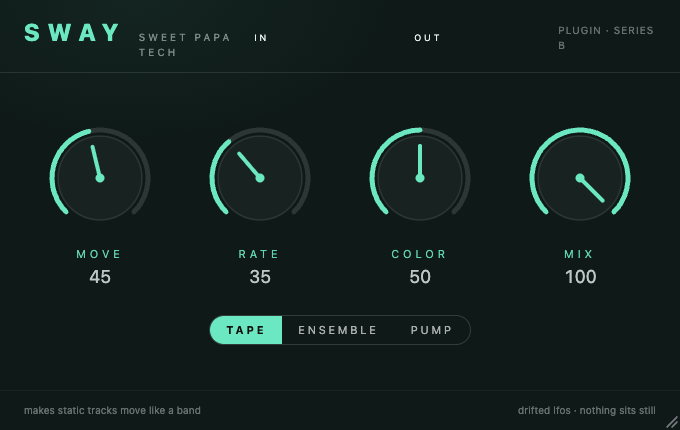
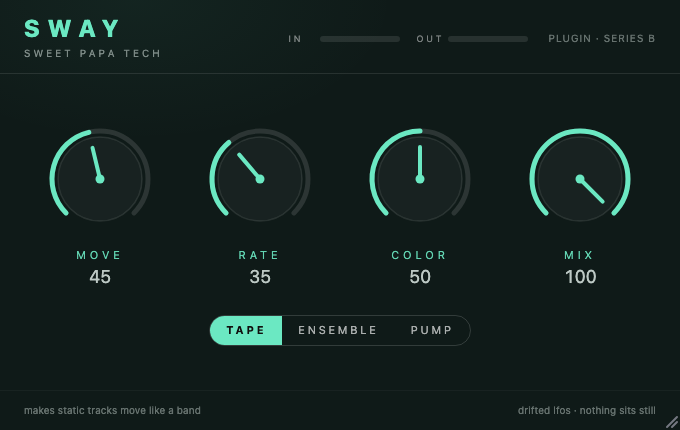
Fix overlapping and clipped UI across every pedal
The six pedal faces all had layout defects that made controls
unreadable. Verified each fix by measuring the rendered geometry in a
browser, not by eye.

FOFOPEDAL had genuine text-on-text collisions. The six knob columns were
fixed percentages (14%-18%) but the type-toggle rows inside them are
intrinsically wider, so each row painted over its neighbour: "Iron" sat
under "Chorus", "Trem/Vib" under "Digital", "Tape" under "Plate". Columns
now size to their own content, and the small toggles are compact enough
that all six fit the 932px of usable width exactly.

BACKPORCH, DOUBLE and SWAY shipped a Meter copy-pasted from DAYDREAM that
still referenced bg-dream-edge and text-dream-dim. Those tokens exist only
in DAYDREAM's Tailwind config, so the classes were never generated and the
meter track computed to rgba(0,0,0,0) — the IN/OUT bars were invisible,
not dim. The component is now token-free and identical across all four
pedals again.

Their headers also laid three items across a width that fit two: the gap
between the wordmark and the meters was exactly 0px, "Sweet Papa Tech"
wrapped to three lines into the IN label, and "plugin · series b" was
squeezed to 43px. DAYDREAM was worst — 679px of header inside a 520px
design box, so the OUT meter was cut in half and the version tag was
entirely off-screen. Wordmarks now stack, side text can't wrap, and
DAYDREAM stacks its meters and moves the version to the footer.
[…]

diff --git a/fofopedal/ui/src/App.jsx b/fofopedal/ui/src/App.jsx
@@ -51,7 +51,7 @@ export default function App() {
 
   return (
     <>
-    <FitScale designWidth={980} designHeight={800} background="#f3ecdd">
+    <FitScale designWidth={980} designHeight={640} background="#f3ecdd">
     <div className="relative w-full h-full text-paper-ink overflow-hidden paper-grain bg-paper">
       {/* Foreground */}
       <div className="relative flex flex-col h-full">
@@ -87,15 +87,15 @@ export default function App() {
         </section>
 
         {/* Six big knobs */}
-        <section className="flex-1 px-6 py-6 flex flex-col">
-          <div className="flex items-start justify-between gap-3">
+        <section className="flex-1 px-6 py-6 flex flex-col justify-center">
+          <div className="flex items-start justify-between gap-2">
             {/* CHARACTER */}
-            <div className="flex flex-col items-center gap-3 w-[14%]">
+            <div className="flex flex-col items-center gap-3 shrink-0">
               <BigKnob paramId="character" label="Character" accent="terracotta" defaultNormalised={0.25} />
             </div>
 
             {/* DRIVE */}
-            <div className="flex flex-col items-center gap-3 w-[16%]">
+            <div className="flex flex-col items-center gap-3 shrink-0">
               <BigKnob paramId="drive" label="Drive" accent="terracotta" defaultNormalised={0.20} />
               <SegmentedToggle
                 paramId="driveType"
@@ -105,7 +105,7 @@ export default function App() {
             </div>
 
             {/* SHAPE */}
-            <div className="flex flex-col items-center gap-3 w-[18%]">
+            <div className="flex flex-col items-center gap-3 shrink-0">
               <BigKnob paramId="shape" label="Shape" accent="mustard" defaultNormalised={0.5} />
               <div className="flex flex-col gap-1.5">
                 <SegmentedToggle
@@ -122,7 +122,7 @@ export default function App() {
             </div>
 
             {/* TIME */}
-            <div className="flex flex-col items-center gap-3 w-[16%]">
+            <div className="flex flex-col items-center gap-3 shrink-0">
               <BigKnob
                 paramId="timeMs"
                 label="Time"
@@ -138,7 +138,7 @@ export default function App() {
             </div>
 
             {/* SPACE */}
-            <div className="flex flex-col items-center gap-3 w-[18%]">
+            <div className="flex flex-col items-center gap-3 shrink-0">
               <BigKnob paramId="space" label="Space" accent="sage" defaultNormalised={0.30} />
               <SegmentedToggle
                 paramId="spaceType"
@@ -148,7 +148,7 @@ export default function App() {
             </div>
 
             {/* MIX */}
-            <div className="flex flex-col items-center gap-3 w-[14%]">
+            <div className="flex flex-col items-center gap-3 shrink-0">
               <BigKnob paramId="mix" label="Mix" accent="ink" defaultNormalised={0.30} />
             </div>
           </div>
@@ -187,7 +187,7 @@ export default function App() {
       </div>
     </div>
     </FitScale>
-    <ResizeHandle minWidth={640} minHeight={522} />
+    <ResizeHandle minWidth={640} minHeight={418} />
     </>
   );
 }

diff --git a/daydream/ui/src/App.jsx b/daydream/ui/src/App.jsx
@@ -60,8 +60,8 @@ export default function App() {
 
       {/* Foreground */}
       <div className="relative flex flex-col h-full">
-        <header className="px-6 pt-4 pb-3 flex items-center justify-between gap-4 border-b border-dream-edge/60">
-          <div className="flex items-baseline gap-3">
+        <header className="px-6 pt-4 pb-3 flex items-center gap-5 border-b border-dream-edge/60">
+          <div className="flex flex-col shrink-0">
             <h1 className="text-2xl font-extrabold tracking-[0.4em]"
                 style={{
                   background: 'linear-gradient(90deg, #4cdef0, #c084ff, #ff8ad3)',
@@ -70,17 +70,14 @@ export default function App() {
                 }}>
               DAYDREAM
             </h1>
-            <span className="text-[10px] uppercase tracking-[0.35em] text-dream-dim">
+            <span className="text-[10px] uppercase tracking-[0.35em] text-dream-dim mt-1.5 whitespace-nowrap">
               Sweet Papa Tech
             </span>
           </div>
-          <div className="flex items-center gap-4">
+          <div className="flex-1 flex flex-col items-end gap-1.5">
             <Meter label="In"  level={levels.in} />
             <Meter label="Out" level={levels.out} />
           </div>
-          <span className="text-[10px] uppercase tracking-widest text-dream-dim">
-            {isJuceHost ? 'plugin' : 'preview'} · v0.1
-          </span>
         </header>
 
         <main className="flex-1 flex items-center justify-center">
@@ -91,7 +88,7 @@ export default function App() {
 
         <footer className="px-6 py-3 border-t border-dream-edge/60 text-[10px] text-dream-dim flex justify-between">
           <span>tape sat · pitch drift · chorus · slap · shimmer reverb</span>
-          <span>turn it up · made for FoFo</span>
+          <span>turn it up · made for FoFo · {isJuceHost ? 'plugin' : 'preview'} · v0.1</span>
         </footer>
       </div>
     </div>

diff --git a/ui/src/App.jsx b/ui/src/App.jsx
@@ -64,8 +64,8 @@ export default function App() {
       {/* Foreground */}
       <div className="relative flex flex-col h-full">
         <header className="px-6 pt-4 pb-3 flex items-center justify-between gap-4 border-b border-vroom-edge backdrop-blur-sm">
-          <div className="flex items-baseline gap-3">
-            <h1 className="text-3xl font-extrabold tracking-[0.25em]"
+          <div className="flex flex-col shrink-0">
+            <h1 className="text-3xl font-extrabold tracking-[0.25em] leading-none"
                 style={{
                   background: 'linear-gradient(90deg, #ff5050, #ffaa3c, #ffd040, #4cdef0, #a55aff, #ff5aa3)',
                   WebkitBackgroundClip: 'text',
@@ -73,17 +73,14 @@ export default function App() {
                 }}>
               VROOM
             </h1>
-            <span className="text-[10px] uppercase tracking-[0.3em] text-vroom-dim">
+            <span className="text-[10px] uppercase tracking-[0.3em] text-vroom-dim mt-1.5 whitespace-nowrap">
               Sweet Papa Tech
             </span>
           </div>
-          <div className="flex items-center gap-4">
+          <div className="flex-1 flex items-center justify-end gap-4">
             <ModeSelector />
             <VoiceSelector />
           </div>
-          <span className="text-[10px] uppercase tracking-widest text-vroom-dim">
-            {isJuceHost ? 'plugin' : 'dev preview'} · v0.1
-          </span>
         </header>
 
         <PresetBar />
@@ -114,7 +111,7 @@ export default function App() {
 
         <footer className="px-6 py-2 border-t border-vroom-edge text-[10px] text-vroom-dim flex justify-between">
           <span>4 voices · source-aware · 16 factory presets</span>
-          <span>made for FoFo · v0.1.0</span>
+          <span>made for FoFo · {isJuceHost ? 'plugin' : 'dev preview'} · v0.1.0</span>
         </footer>
       </div>
     </div>

diff --git a/backporch/ui/src/App.jsx b/backporch/ui/src/App.jsx
@@ -38,16 +38,16 @@ export default function App() {
       <div className="absolute inset-0 pointer-events-none opacity-[0.05]"
            style={{ background: 'radial-gradient(ellipse 80% 50% at 50% 110%, #ff9b6b 0%, transparent 60%)' }} />
 
-      <header className="relative px-6 pt-4 pb-3 flex items-center justify-between border-b border-white/10">
-        <div className="flex items-baseline gap-3">
-          <h1 className="text-2xl font-extrabold tracking-[0.35em]" style={{ color: ACCENT }}>BACKPORCH</h1>
-          <span className="text-[10px] uppercase tracking-[0.3em] opacity-50">Sweet Papa Tech</span>
+      <header className="relative px-6 pt-4 pb-3 flex items-center gap-5 border-b border-white/10">
+        <div className="flex flex-col shrink-0">
+          <h1 className="text-2xl font-extrabold tracking-[0.35em] leading-none" style={{ color: ACCENT }}>BACKPORCH</h1>
+          <span className="text-[10px] uppercase tracking-[0.3em] opacity-50 mt-1.5 whitespace-nowrap">Sweet Papa Tech</span>
         </div>
-        <div className="flex items-center gap-4">
+        <div className="flex-1 flex items-center justify-end gap-4">
           <Meter label="In" level={levels.in} />
           <Meter label="Out" level={levels.out} />
         </div>
-        <span className="text-[10px] uppercase tracking-widest opacity-40">
+        <span className="text-[10px] uppercase tracking-widest opacity-40 shrink-0 whitespace-nowrap">
           {isJuceHost ? 'plugin' : 'preview'} · series b
         </span>
       </header>

diff --git a/double/ui/src/App.jsx b/double/ui/src/App.jsx
@@ -38,16 +38,16 @@ export default function App() {
       <div className="absolute inset-0 pointer-events-none opacity-[0.05]"
            style={{ background: 'repeating-linear-gradient(90deg, transparent 0 38px, #ffb454 38px 40px)' }} />
 
-      <header className="relative px-6 pt-4 pb-3 flex items-center justify-between border-b border-white/10">
-        <div className="flex items-baseline gap-3">
-          <h1 className="text-2xl font-extrabold tracking-[0.35em]" style={{ color: ACCENT }}>DOUBLE</h1>
-          <span className="text-[10px] uppercase tracking-[0.3em] opacity-50">Sweet Papa Tech</span>
+      <header className="relative px-6 pt-4 pb-3 flex items-center gap-5 border-b border-white/10">
+        <div className="flex flex-col shrink-0">
+          <h1 className="text-2xl font-extrabold tracking-[0.35em] leading-none" style={{ color: ACCENT }}>DOUBLE</h1>
+          <span className="text-[10px] uppercase tracking-[0.3em] opacity-50 mt-1.5 whitespace-nowrap">Sweet Papa Tech</span>
         </div>
-        <div className="flex items-center gap-4">
+        <div className="flex-1 flex items-center justify-end gap-4">
           <Meter label="In" level={levels.in} />
           <Meter label="Out" level={levels.out} />
         </div>
-        <span className="text-[10px] uppercase tracking-widest opacity-40">
+        <span className="text-[10px] uppercase tracking-widest opacity-40 shrink-0 whitespace-nowrap">
           {isJuceHost ? 'plugin' : 'preview'} · series b
         </span>
       </header>

diff --git a/sway/ui/src/App.jsx b/sway/ui/src/App.jsx
@@ -38,16 +38,16 @@ export default function App() {
       <div className="absolute inset-0 pointer-events-none opacity-[0.05]"
            style={{ background: 'radial-gradient(ellipse 70% 60% at 20% 0%, #6be8c2 0%, transparent 55%)' }} />
 
-      <header className="relative px-6 pt-4 pb-3 flex items-center justify-between border-b border-white/10">
-        <div className="flex items-baseline gap-3">
-          <h1 className="text-2xl font-extrabold tracking-[0.35em]" style={{ color: ACCENT }}>SWAY</h1>
-          <span className="text-[10px] uppercase tracking-[0.3em] opacity-50">Sweet Papa Tech</span>
+      <header className="relative px-6 pt-4 pb-3 flex items-center gap-5 border-b border-white/10">
+        <div className="flex flex-col shrink-0">
+          <h1 className="text-2xl font-extrabold tracking-[0.35em] leading-none" style={{ color: ACCENT }}>SWAY</h1>
+          <span className="text-[10px] uppercase tracking-[0.3em] opacity-50 mt-1.5 whitespace-nowrap">Sweet Papa Tech</span>
         </div>
-        <div className="flex items-center gap-4">
+        <div className="flex-1 flex items-center justify-end gap-4">
           <Meter label="In" level={levels.in} />
           <Meter label="Out" level={levels.out} />
         </div>
-        <span className="text-[10px] uppercase tracking-widest opacity-40">
+        <span className="text-[10px] uppercase tracking-widest opacity-40 shrink-0 whitespace-nowrap">
           {isJuceHost ? 'plugin' : 'preview'} · series b
         </span>
       </header>

diff --git a/fofopedal/ui/src/components/SegmentedToggle.jsx b/fofopedal/ui/src/components/SegmentedToggle.jsx
@@ -19,9 +19,12 @@ export default function SegmentedToggle({
     return () => combo.valueChangedEvent.removeListener(onChange);
   }, [combo]);
 
+  // 'sm' rows sit under the six knobs, where every column competes for the
+  // same 980px. Tighter padding and letter-spacing keep a row inside its
+  // own column instead of painting over its neighbour.
   const sizeClass = size === 'sm'
-    ? 'text-[10px] px-2.5 py-1'
-    : 'text-xs px-3.5 py-1.5';
+    ? 'text-[10px] px-1.5 py-1 tracking-[0.06em]'
+    : 'text-xs px-3.5 py-1.5 tracking-[0.15em]';
 
   return (
     <div className={`inline-flex rounded-full border border-paper-line bg-paper p-0.5 shadow-sketch ${className}`}>
@@ -29,7 +32,7 @@ export default function SegmentedToggle({
         <button
           key={opt}
           onClick={() => combo.setChoiceIndex(i)}
-          className={`${sizeClass} rounded-full font-semibold tracking-[0.15em] uppercase transition-colors
+          className={`${sizeClass} whitespace-nowrap rounded-full font-semibold uppercase transition-colors
             ${i === idx
               ? 'bg-terracotta text-paper shadow-inner'
               : 'text-paper-dim hover:text-paper-ink'}`}

diff --git a/backporch/ui/src/components/Meter.jsx b/backporch/ui/src/components/Meter.jsx
@@ -21,8 +21,8 @@ export default function Meter({ label, level }) {
   const color = colorForLevel(level);
   return (
     <div className="flex items-center gap-2 min-w-0">
-      <span className="text-[9px] uppercase tracking-[0.3em] text-dream-dim w-6 shrink-0">{label}</span>
-      <div className="relative h-1.5 w-28 bg-dream-edge rounded-full overflow-hidden">
+      <span className="text-[9px] uppercase tracking-[0.3em] text-white/45 w-6 shrink-0">{label}</span>
+      <div className="relative h-1.5 w-20 shrink-0 bg-white/10 rounded-full overflow-hidden">
         <div className="absolute inset-y-0 left-0 rounded-full transition-[width] duration-75 ease-out"
              style={{ width: `${norm * 100}%`, backgroundColor: color }} />
       </div>

diff --git a/daydream/ui/src/components/Meter.jsx b/daydream/ui/src/components/Meter.jsx
@@ -21,8 +21,8 @@ export default function Meter({ label, level }) {
   const color = colorForLevel(level);
   return (
     <div className="flex items-center gap-2 min-w-0">
-      <span className="text-[9px] uppercase tracking-[0.3em] text-dream-dim w-6 shrink-0">{label}</span>
-      <div className="relative h-1.5 w-28 bg-dream-edge rounded-full overflow-hidden">
+      <span className="text-[9px] uppercase tracking-[0.3em] text-white/45 w-6 shrink-0">{label}</span>
+      <div className="relative h-1.5 w-20 shrink-0 bg-white/10 rounded-full overflow-hidden">
         <div className="absolute inset-y-0 left-0 rounded-full transition-[width] duration-75 ease-out"
              style={{ width: `${norm * 100}%`, backgroundColor: color }} />
       </div>

diff --git a/double/ui/src/components/Meter.jsx b/double/ui/src/components/Meter.jsx
@@ -21,8 +21,8 @@ export default function Meter({ label, level }) {
   const color = colorForLevel(level);
   return (
     <div className="flex items-center gap-2 min-w-0">
-      <span className="text-[9px] uppercase tracking-[0.3em] text-dream-dim w-6 shrink-0">{label}</span>
-      <div className="relative h-1.5 w-28 bg-dream-edge rounded-full overflow-hidden">
+      <span className="text-[9px] uppercase tracking-[0.3em] text-white/45 w-6 shrink-0">{label}</span>
+      <div className="relative h-1.5 w-20 shrink-0 bg-white/10 rounded-full overflow-hidden">
         <div className="absolute inset-y-0 left-0 rounded-full transition-[width] duration-75 ease-out"
              style={{ width: `${norm * 100}%`, backgroundColor: color }} />
       </div>

diff --git a/sway/ui/src/components/Meter.jsx b/sway/ui/src/components/Meter.jsx
@@ -21,8 +21,8 @@ export default function Meter({ label, level }) {
   const color = colorForLevel(level);
   return (
     <div className="flex items-center gap-2 min-w-0">
-      <span className="text-[9px] uppercase tracking-[0.3em] text-dream-dim w-6 shrink-0">{label}</span>
-      <div className="relative h-1.5 w-28 bg-dream-edge rounded-full overflow-hidden">
+      <span className="text-[9px] uppercase tracking-[0.3em] text-white/45 w-6 shrink-0">{label}</span>
+      <div className="relative h-1.5 w-20 shrink-0 bg-white/10 rounded-full overflow-hidden">
         <div className="absolute inset-y-0 left-0 rounded-full transition-[width] duration-75 ease-out"
              style={{ width: `${norm * 100}%`, backgroundColor: color }} />
       </div>

diff --git a/ui/src/components/CabSection.jsx b/ui/src/components/CabSection.jsx
@@ -65,7 +65,7 @@ export default function CabSection() {
 
   return (
     <div className="px-6 py-3 border-t border-vroom-edge flex items-center gap-4 flex-wrap">
-      <span className="text-[10px] uppercase tracking-[0.3em] text-vroom-dim w-12 shrink-0">
+      <span className="text-[10px] uppercase tracking-[0.3em] text-vroom-dim shrink-0">
         Cabinet
       </span>
 
